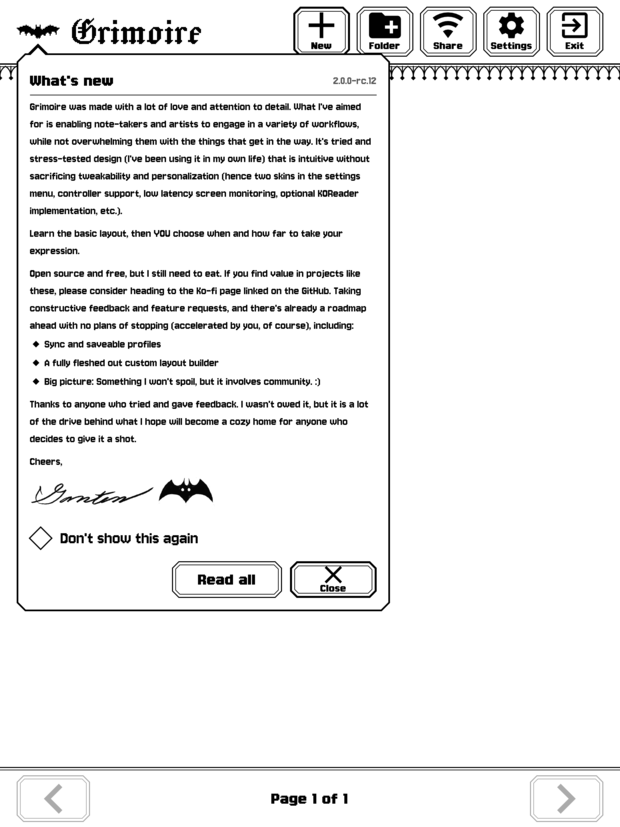
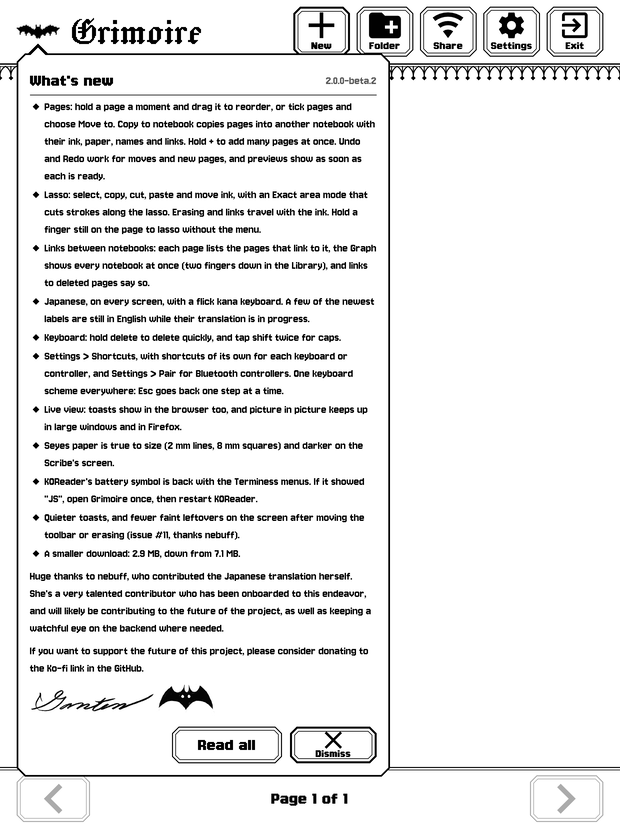
What's new: the README's card without the box; RELEASING has the notes vetted before the gate and the test
The README's picture of What's new (docs/screens/whatsnew.png) was the rc.12 card, with Don't show this again
and Close: it is now the card as this tree draws it (build/shots/z_about/01-card.png at 620x827 in grey):
2.0.0's notes whole, the signature, Read all and Dismiss. The bump commit refreshes it when the card's look or
the notes change.

The notes are compiled in, so the owner vets them and his changes go in before the gate on the bump commit and
his test on the Kindle, not after: a change after the test is a new gate and a new test, and the tested build
has already recorded the version as seen on his Scribe. tests/scenarios/z_about.qs states the notes' shape
(card_notes, card_blocks, Read all's pages): the bump commit sets them to the new notes', with the command that
runs the scenario alone.

Claude-Session: https://claude.ai/code/session_01Uoe9ZJNyEZYoc4bsjqbSyQ

Changed region(s): [[0.0, 0.0907, 0.6435, 0.9371], [0.6435, 0.0605, 0.6742, 0.0907]]

diff --git a/docs/RELEASING.md b/docs/RELEASING.md
@@ -79,7 +79,19 @@ them.
      user-visible changes in short bullets from the CHANGELOG, then the owner's closing and the
      `{signature}` line as the last notes had them. The app compiles the file in, so it is part of the
      build the owner tests. For a release the owner vets the note and makes his changes to it: send
-     it to him before the tag, and gate again after his changes.
+     it to him, and put his changes in, before the gate (step 5) and his test (step 6). A change
+     after his test is a new gate and a new test, and the build he tested has already recorded the
+     version as seen on his Scribe, so changed notes would not open there by themselves.
+     `tests/scenarios/z_about.qs` states the notes' shape, in its comment and in its checks: the
+     card's `library.about.card_notes` and `card_blocks`, upright and sideways, and Read all's
+     `pages`, upright and sideways (its page arrows need two pages or more sideways). Set them to
+     the new notes': `make scenarios SCENARIOS=tests/scenarios/z_about.qs SCEN_NO_SELFTEST=1` names
+     each check that differs, with the value it found, and `build/shots/z_about/` shows the card,
+     which must end at a whole item.
+   - `docs/screens/whatsnew.png`, the README's picture of the card, when its look or the notes
+     changed: `build/shots/z_about/01-card.png` from the gate of step 5, made 620x827 in grey
+     (`magick 01-card.png -colorspace Gray -filter Lanczos -resize '620x827!' -depth 8 whatsnew.png`).
+     The picture is not in the build, so it can come in the docs commit of step 6.
    - `po/grimoire.pot` carries the version in its header: `make l10n` (needs GNU gettext) rewrites
      it, and the .po and .mo files with it. A stale header does no harm.
 
